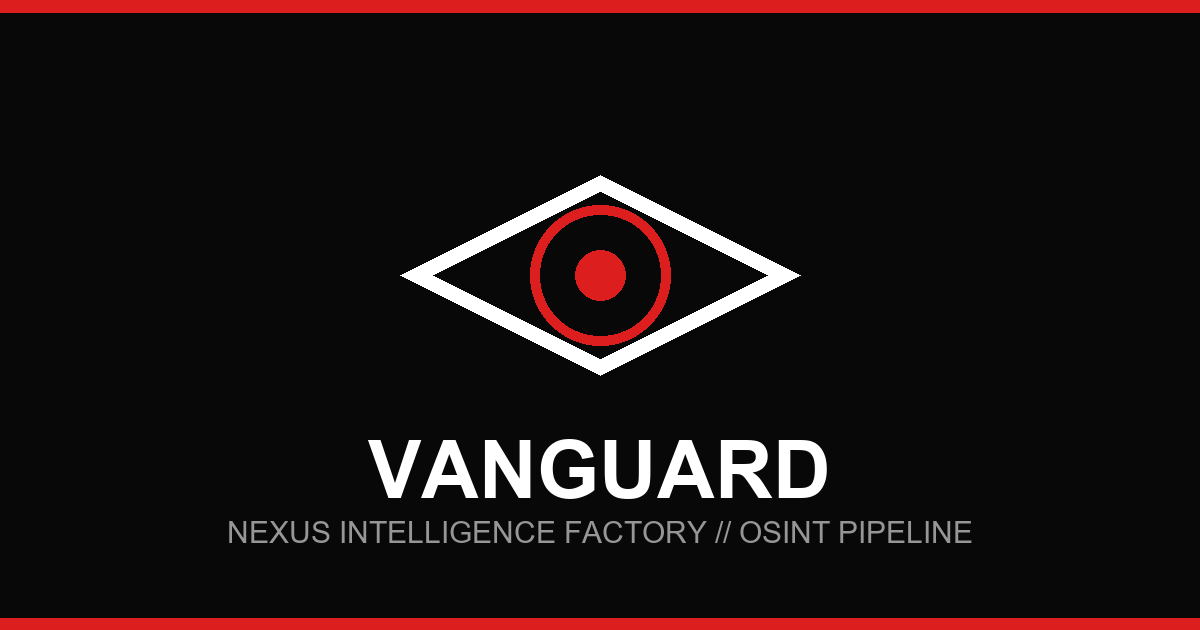
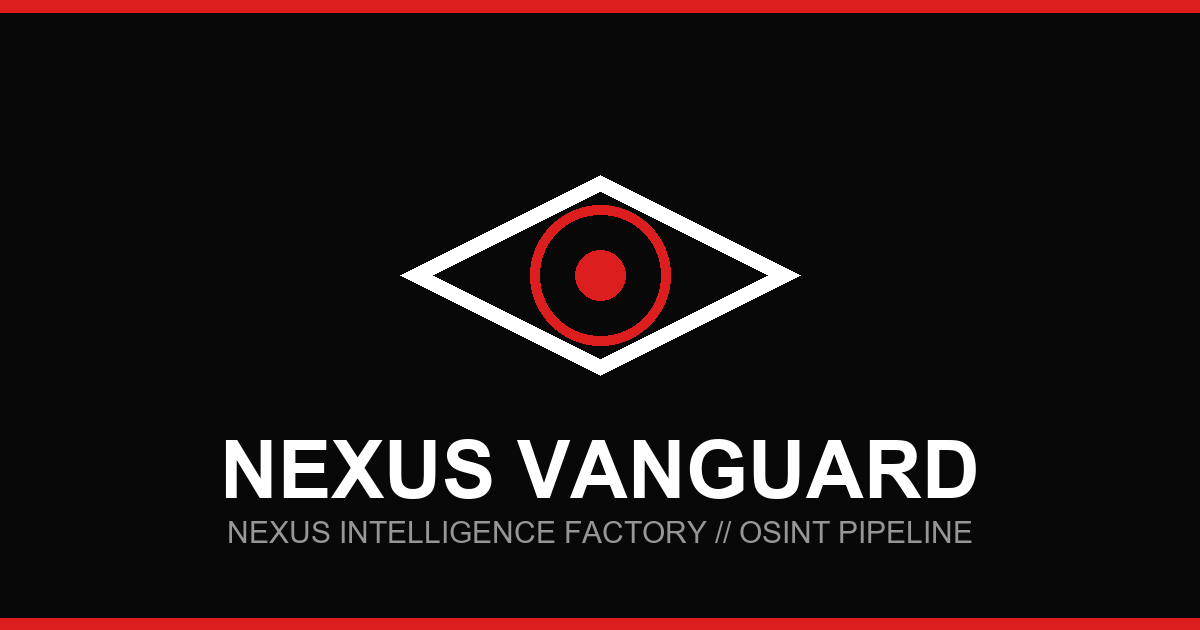
Nexus Autonomous Release

Changed region(s): [[0.185, 0.6937, 0.8325, 0.8143]]

diff --git a/landing/index.html b/landing/index.html
@@ -3,21 +3,21 @@
 <head>
 <meta charset="UTF-8">
 <meta name="viewport" content="width=device-width, initial-scale=1.0">
-<title>Vanguard | NEXUS</title>
-<meta name="description" content="Next-gen OSINT & Legal-DevOps system.">
+<title>NEXUS VANGUARD | NEXUS</title>
+<meta name="description" content="{og_pitch}">
 
 <!-- Open Graph / Meta -->
 <meta property="og:type" content="website">
 <meta property="og:url" content="https://b002-vanguard.vercel.app">
-<meta property="og:title" content="Vanguard | NEXUS Intelligence">
-<meta property="og:description" content="Next-gen OSINT & Legal-DevOps system.">
+<meta property="og:title" content="NEXUS VANGUARD | NEXUS Intelligence">
+<meta property="og:description" content="{og_pitch}">
 <meta property="og:image" content="https://b002-vanguard.vercel.app/og-image.png">
 
 <!-- Twitter -->
 <meta property="twitter:card" content="summary_large_image">
 <meta property="twitter:url" content="https://b002-vanguard.vercel.app">
-<meta property="twitter:title" content="Vanguard | NEXUS Intelligence">
-<meta property="twitter:description" content="Next-gen OSINT & Legal-DevOps system.">
+<meta property="twitter:title" content="NEXUS VANGUARD | NEXUS Intelligence">
+<meta property="twitter:description" content="{og_pitch}">
 <meta property="twitter:image" content="https://b002-vanguard.vercel.app/og-image.png">
 
 <link rel="preconnect" href="https://fonts.googleapis.com">
@@ -224,10 +224,10 @@ footer {
 <section class="hero">
   <div class="hero-top">
     <div class="h-tag" id="tag" data-en="NEXUS INTELLIGENCE SYSTEM" data-ua="NEXUS СИСТЕМА РОЗВІДКИ" data-ru="NEXUS СИСТЕМА РАЗВЕДКИ">NEXUS INTELLIGENCE SYSTEM</div>
-    <h1 class="h-title">Vanguard</h1>
+    <h1 class="h-title">NEXUS VANGUARD</h1>
   </div>
   <div class="hero-bottom">
-    <p class="h-slogan" id="slogan" data-en="Autonomous intelligence platform." data-ua="Автономна фабрика розвідки. Збирає. Аналізує. Доставляє." data-ru="Автономная фабрика разведки. Собирает. Анализирует. Доставляет.">Autonomous intelligence platform.</p>
+    <p class="h-slogan" id="slogan" data-en="Autonomous OSINT Reconnaissance & Intelligence Engine." data-ua="Автономна фабрика розвідки. Збирає. Аналізує. Доставляє." data-ru="Автономная фабрика разведки. Собирает. Анализирует. Доставляет.">Autonomous OSINT Reconnaissance & Intelligence Engine.</p>
     <span class="h-scroll">SCROLL </span>
   </div>
 </section>
@@ -238,19 +238,19 @@ footer {
   <div class="st-grid">
     <div class="st-card">
   <div class="st-title" data-en="What is it?" data-ua="Що це таке?" data-ru="Что это такое?">What is it?</div>
-  <p class="st-body" data-en="" data-ua="" data-ru=""></p>
+  <p class="st-body" data-en="A mission-critical OSINT orchestrator that hunts for digital footprints in real-time, delivering clean intelligence dossiers automatically." data-ua="Автономний OSINT-оркестратор для пошуку цифрових слідів у реальному часі, що автоматично формує досьє." data-ru="Автономный OSINT-оркестратор для поиска цифровых следов в реальном времени, автоматически формирующий досье.">A mission-critical OSINT orchestrator that hunts for digital footprints in real-time, delivering clean intelligence dossiers automatically.</p>
 </div>
 <div class="st-card">
   <div class="st-title" data-en="Who needs it?" data-ua="Кому потрібно?" data-ru="Кому нужно?">Who needs it?</div>
-  <p class="st-body" data-en="" data-ua="" data-ru=""></p>
+  <p class="st-body" data-en="Intelligence analysts, legal professionals, and cybersecurity teams requiring rapid, automated external footprinting." data-ua="Аналітики розвідки, юристи та команди кібербезпеки, яким потрібна швидка автоматизована розвідка." data-ru="Аналитики разведки, юристы и команды кибербезопасности, которым нужна быстрая автоматизированная разведка.">Intelligence analysts, legal professionals, and cybersecurity teams requiring rapid, automated external footprinting.</p>
 </div>
 <div class="st-card">
   <div class="st-title" data-en="How does it work?" data-ua="Як працює?" data-ru="Как работает?">How does it work?</div>
-  <p class="st-body" data-en="" data-ua="" data-ru=""></p>
+  <p class="st-body" data-en="Orchestrates 6 specialized modules in parallel (Domain, Emails, Usernames, Breaches). Uses k-anonymity for breach checks and html.parser for web structure analysis." data-ua="Запускає 6 модулів паралельно (Домени, Пошта, Юзернейми, Витоки). Використовує k-anonymity та html.parser для аналізу." data-ru="Запускает 6 модулей параллельно (Домены, Почта, Юзернеймы, Утечки). Использует k-anonymity и html.parser для анализа.">Orchestrates 6 specialized modules in parallel (Domain, Emails, Usernames, Breaches). Uses k-anonymity for breach checks and html.parser for web structure analysis.</p>
 </div>
 <div class="st-card">
   <div class="st-title" data-en="What do you get?" data-ua="Що отримаєте?" data-ru="Что вы получаете?">What do you get?</div>
-  <p class="st-body" data-en="" data-ua="" data-ru=""></p>
+  <p class="st-body" data-en="A hardened, rate-limited JSON intelligence report with scrubbed sensitive data, ready for legal or technical review." data-ua="Захищений JSON-звіт розвідки з очищеними конфіденційними даними, готовий до юридичного аналізу." data-ru="Защищенный JSON-отчет разведки с очищенными конфиденциальными данными, готовый к юридическому анализу.">A hardened, rate-limited JSON intelligence report with scrubbed sensitive data, ready for legal or technical review.</p>
 </div>
 
   </div>
@@ -267,17 +267,19 @@ footer {
   <div class="provide-box">
     <div class="provide-left">
       <h2 class="p-heading" id="p-heading"
-          data-en="What you need to give the system"
-          data-ua="Що потрібно надати системі"
-          data-ru="Что нужно передать системе">What you need to give the system</h2>
+          data-en="Input vectors"
+          data-ua="Вхідні вектори"
+          data-ru="Входные векторы">Input vectors</h2>
       <p class="p-sub" id="p-note"
-         data-en=""
-         data-ua=""
-         data-ru=""></p>
+         data-en="Valid input is critical for intelligence fidelity."
+         data-ua="Валідні дані критичні для точності розвідки."
+         data-ru="Валидные данные критичны для точности разведки.">Valid input is critical for intelligence fidelity.</p>
     </div>
     <div class="provide-right">
       <ul class="p-list">
-        <li class="p-item" data-en="A name, domain, or email address" data-ua="A name, domain, or email address" data-ru="A name, domain, or email address">A name, domain, or email address</li>
+        <li class="p-item" data-en="Target Domain (example.com)" data-ua="Цільовий домен (example.com)" data-ru="Целевой домен (example.com)">Target Domain (example.com)</li>
+<li class="p-item" data-en="Target Email (user@domain)" data-ua="Цільова пошта (user@domain)" data-ru="Целевая почта (user@domain)">Target Email (user@domain)</li>
+<li class="p-item" data-en="Target Username (johndoe)" data-ua="Юзернейм (johndoe)" data-ru="Юзернейм (johndoe)">Target Username (johndoe)</li>
 
       </ul>
     </div>
@@ -336,9 +338,8 @@ footer {
     <div class="m-card"><span class="m-num">01</span><p class="m-txt">Breach Intel</p></div>
 <div class="m-card"><span class="m-num">02</span><p class="m-txt">Endpoint Monitor</p></div>
 <div class="m-card"><span class="m-num">03</span><p class="m-txt">Identity Profiler</p></div>
-<div class="m-card"><span class="m-num">04</span><p class="m-txt">Network Recon</p></div>
-<div class="m-card"><span class="m-num">05</span><p class="m-txt">Security Analyzer</p></div>
-<div class="m-card"><span class="m-num">06</span><p class="m-txt">Web Crawler</p></div>
+<div class="m-card"><span class="m-num">04</span><p class="m-txt">Security Analyzer</p></div>
+<div class="m-card"><span class="m-num">05</span><p class="m-txt">Web Crawler</p></div>
 
   </div>
 </section>
@@ -347,18 +348,41 @@ footer {
 <section class="section" id="deploy">
   <div class="s-label">05  DEPLOYMENT & REQUIREMENTS</div>
   <div class="d-box">
-    <div class="d-where" data-en="Runs locally." data-ua="Працює локально." data-ru="Работает локально.">Runs locally.</div>
+    <div class="d-where" data-en="Local execution with parallel thread management." data-ua="Локальний запуск з паралельними потоками." data-ru="Локальный запуск с параллельными потоками.">Local execution with parallel thread management.</div>
     <ul class="d-reqs">
-      
+      <li class="d-req">Python 3.10+</li>
+<li class="d-req">Requests (optional)</li>
+<li class="d-req">Internet connectivity</li>
+
     </ul>
   </div>
 </section>
 
 <!-- TECH STACK -->
 <section class="section" id="stack">
-  <div class="s-label" data-en="06  Open-source repositories powering this tool" data-ua="06  Відкриті репозиторії інструменту" data-ru="06  Открытые репозитории инструмента">06  Open-source repositories powering this tool</div>
+  <div class="s-label" data-en="06  Core open-source inspirations" data-ua="06  Основні відкриті технології" data-ru="06  Основные открытые технологии">06  Core open-source inspirations</div>
   <div class="repo-grid">
-    
+    <div class="repo-card">
+  <div class="repo-name">Maigret</div>
+  <div class="repo-url">github.com/soxoj/maigret</div>
+  <div class="repo-desc">High-fidelity username tracing.</div>
+</div>
+<div class="repo-card">
+  <div class="repo-name">theHarvester</div>
+  <div class="repo-url">github.com/laramies/theHarvester</div>
+  <div class="repo-desc">Subdomain and email discovery.</div>
+</div>
+<div class="repo-card">
+  <div class="repo-name">SpiderFoot</div>
+  <div class="repo-url">github.com/smicallef/spiderfoot</div>
+  <div class="repo-desc">Modular OSINT orchestration logic.</div>
+</div>
+<div class="repo-card">
+  <div class="repo-name">Certstream</div>
+  <div class="repo-url">github.com/CaliDog/certstream-python</div>
+  <div class="repo-desc">Real-time certificate transparency logs.</div>
+</div>
+
   </div>
 </section>
 
